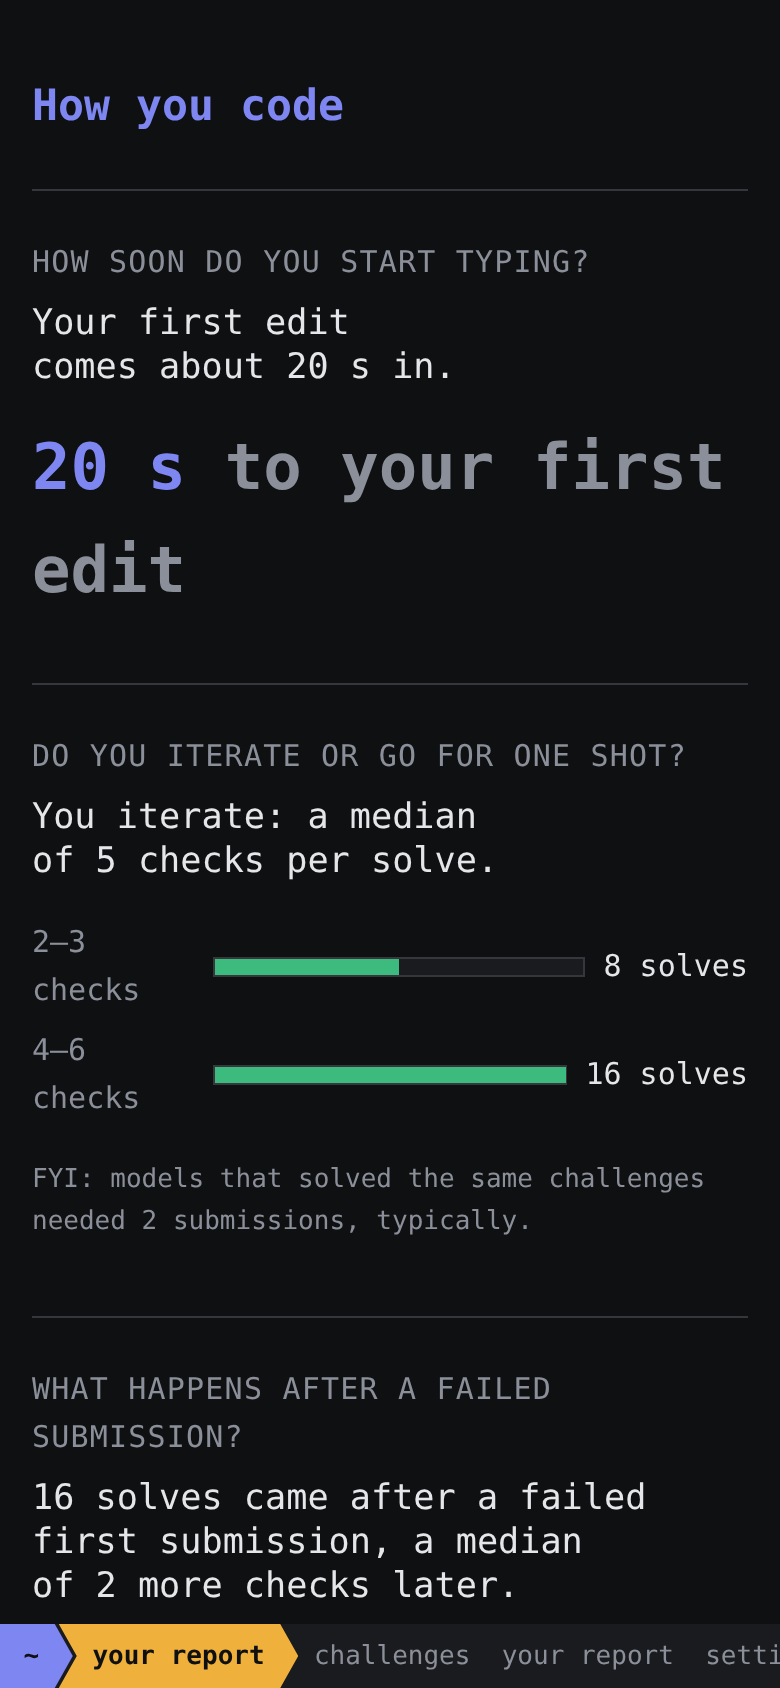
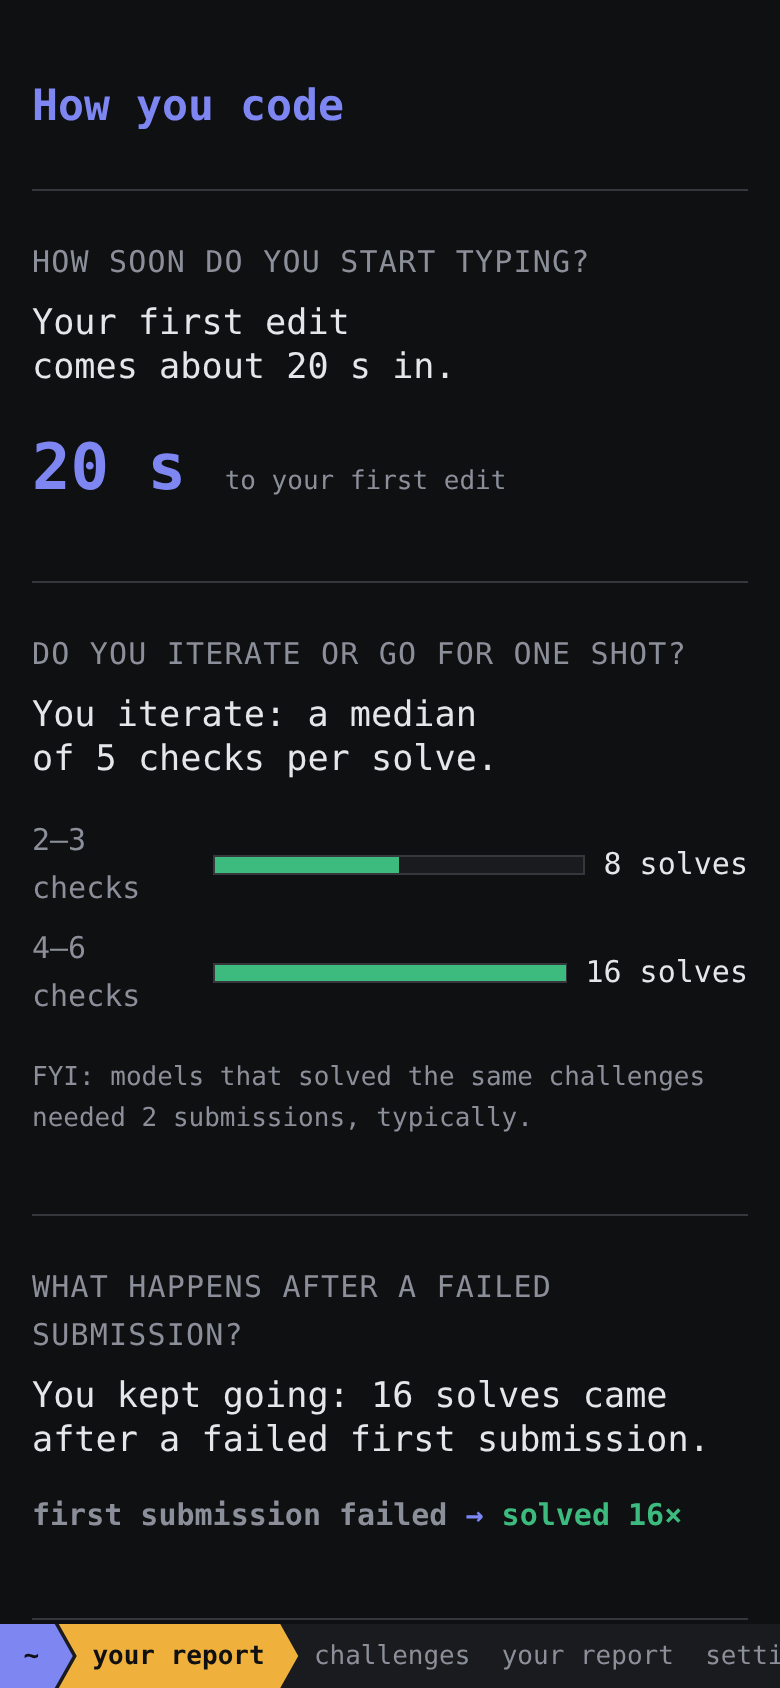
Recapture the portrait on the final source and state caching precisely (ENG-374)
The committed screenshots predated the last wording fixes. They now come
from the final source, with the first-edit figure's unit made small. The
docs say exactly which short-lived caches exist and that no scheduled global
precomputation or new retained personal cache does.

diff --git a/apps/web/app/stats/stats.css b/apps/web/app/stats/stats.css
@@ -165,6 +165,10 @@
   color: var(--t-accent);
   margin: 0.2em 0;
 }
+.report-figure .t-dim {
+  font-size: var(--text-sm, 13px);
+  font-weight: 400;
+}
 .report-turn {
   font-weight: 700;
 }

diff --git a/docs/developer-profile.md b/docs/developer-profile.md
@@ -2,7 +2,7 @@
 
 `/stats` is a private report behind the existing Terms gate: a short story of six adaptive chapters, each one headline, one visual and, only where a player needs it to read the finding correctly, one short line of context.
 
-**Players see insights, not data** (owner direction, 27 October 2026). The page shows no revision hashes, harness or protocol versions, receipt or cache timestamps, formulas, matching or debug statuses, and no methodology disclaimers, not even behind a disclosure. A finding the evidence can't support is left out, not explained. The ENG-340 measurement inventory below (definitions, eligibility, sample rules) is internal documentation and is no longer rendered for players. Consent, privacy choices and the legal notices are separate and unchanged; the report links to the Privacy Notice and settings. After completion, practice links to the report's model chapter without delaying or changing the local verdict.
+**Players see insights, not data** (owner direction, 27 October 2026). The page shows no revision hashes, harness or protocol versions, receipt or cache timestamps, formulas, matching or debug statuses, and no methodology disclaimers, not even behind a disclosure. A finding the evidence can't support is left out, not explained. The ENG-340 measurement inventory below (definitions, eligibility, sample rules) is internal documentation and is no longer rendered for players. Consent, privacy choices and the legal notices are separate and unchanged; the report links to the Privacy Notice and settings.
 
 ## The report
 
@@ -20,6 +20,12 @@
 | Did coming back to a challenge change anything? | A later clean solve of the same challenge, version and conditions needing fewer submissions up to the solve (`toSolve`) | Such a pair exists | Improvement from optional submissions after a solve; general improvement (familiarity with that challenge helps) |
 
 The one FYI today is on "iterate": the median submissions of models that solved the same challenges, each model try counted once however often you solved that challenge, using each model's declared default setting's first try (`defaultComparisons`, shared with practice) and only tries on the same runtime and diagnostics. Pending, unreadable or incomparable model results add nothing. Human comparisons stay off (`COHORTS_ENABLED = false`, [human cohorts](human-cohorts.md), ENG-376); when enabled they would also be a single FYI on the relevant answer.
+
+**Caching, precisely.** Two short-lived caches exist, both from existing infrastructure:
+- uploaded-history summaries are kept in page memory, keyed by participant, while the report is open and for at most five minutes after (a timer drops them);
+- model receipt metadata is cached on the server for 60 seconds per Worker isolate (at most 32 revisions).
+
+There is **no** scheduled or durable global precomputation, and **no** new retained personal-summary cache: nothing about a player is stored for the report beyond what practice already keeps. A prefilled, clock-refreshed global bundle would need new scheduling or configuration and isn't built.
 
 A new player sees one line and a start. Someone who has started but has nothing answerable yet sees one line and a resume. Stealth shows only what stealth means and a link to privacy settings. The page uses the shared terminal geometry.
 

diff --git a/docs/eng-374-evidence/portrait/README.md b/docs/eng-374-evidence/portrait/README.md
@@ -1,9 +1,10 @@
 # ENG-374 portrait: visible experience and load times
 
-Synthetic store of 32 attempts (1,480 records, about 1 MiB), real public challenge keys, no player data. Model results and uploads were mocked where noted. Local production build (`next build` + `next start`), Chromium. 27 October 2026.
+Strictly synthetic: a store of 32 attempts (1,480 records, about 1 MiB) built from public challenge keys and the repo's synthetic trace, with mocked model results (`synthetic/model-a`). No player data. Local production build (`next build` + `next start`), Chromium, 27 October 2026.
 
-- [Mobile](mobile.png), 390×844: "How you code", then the questions this evidence can answer: first edit, iterate (with one model FYI), recovery, edit sizes and languages. The fixture has no runs of typed code characters, and its solves are at one difficulty, so typing and difficulty are left out, not shown empty. Recaptured after the metric-claim fixes (`1f27459`). Page padding 16 px, no sideways scroll.
-- [Desktop](desktop.png), 1280×800: the same, at the shared 48 px left edge.
+Captured on the final source, `7aa3b17` plus the first-edit figure fix (its unit text is now small):
+
+- [Mobile](mobile.png), 390×844, and [desktop](desktop.png), 1280×800. "How you code", then the questions this evidence can answer: first edit, iterate (with one model FYI), "You kept going: 16 solves came after a failed first submission.", edit sizes and languages. The fixture has no runs of typed code characters and its solves are at one difficulty level, so typing and difficulty are left out, not shown empty. Left padding is 16 px on mobile and 48 px on desktop; no sideways scroll; no internals.
 
 ## Measured (time from click or navigation)
 
@@ -11,10 +12,9 @@ Synthetic store of 32 attempts (1,480 records, about 1 MiB), real public challen
 | --- | --- | --- | --- | --- |
 | Full reload of `/stats`, uploads route unavailable locally | first paint 52 ms, largest paint 60 ms | on screen at load | none (results unconfigured) | "couldn't be added" line |
 | Cold in-app visit, uploads mocked at 1.5 s, model results at 0.6 s | 33 ms | 80 ms | 684 ms | 1,544 ms; answers never waited |
-| Re-run after the metric-claim fixes, uploads 0.8 s, model results 0.3 s | — | 110 ms | shown by 860 ms (not timed separately) | 860 ms |
 | Warm revisit, uploads route unavailable | 29 ms | 68 ms | none | immediate status line |
 | Model results down (503) | unchanged | 5 answers | none, and no wording about models | n/a |
 | Reset inside the open report | cleared in 2 ms | back from device evidence in 35 ms | n/a | no history request |
 | Stealth turned on | stealth notice in the same tick | none | none | zero requests |
 
-Model results load two at a time (bounded retry once), from the loading repair. A hung storage open was measured by that repair: progress after 91 ms, the read settles at 8 s.
+These timings were measured on the portrait before the metric-claim fixes; those fixes changed wording and which values are counted, not how anything loads. Model results load two at a time with one bounded retry (from the loading repair). That repair also measured a hung storage open: progress after 91 ms, the read settles at 8 s.
